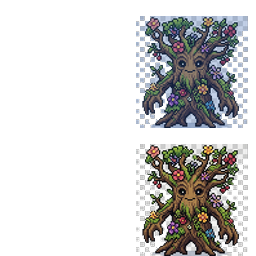
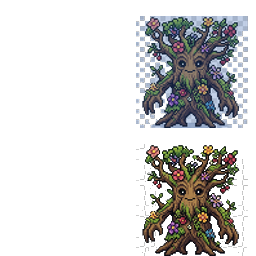
assets(greamici): odstranění rastrovaného (checkerboard) pozadí u lilek + srodik
Dospělé sprity měly zapečený bílo-šedý/modrý šachovnicový raster (artefakt
generace) — happy i sad buňka. Vyčištěna HAPPY buňka (ta se v UI zobrazuje
skoro vždy: neutral+happy mood → happy buňka):
- lilek: barevný klíč (neutrální světlé pixely) flood + global — strom celý, čisté.
- srodik: neutral-key flood na happy buňce — mrak celý, čisté.

SAD buňka ponechána v originále (zobrazuje se zřídka, jen když je mazlíček
smutný): srodikův pastelový mrak je barevně ~jako checker → barevný klíč ho
maže a rembg checker nechává; její dočištění vyžaduje regeneraci/ruční úpravu.

SW v15→v16 (cache-bust obrázků).

Changed region(s): [[0.7188, 0.5625, 0.9688, 1.0], [0.5312, 0.5625, 0.8125, 1.0]]

diff --git a/sw.js b/sw.js
@@ -4,7 +4,7 @@
 //            cache-first for media (audio, images, leaflet, OSM tiles)
 // ═══════════════════════════════════
 
-const VERSION = 'gream-v15';
+const VERSION = 'gream-v16';
 const STATIC_CACHE = `${VERSION}-static`;
 const TILES_CACHE  = `gream-tiles-v1`;
 const LEAFLET_CACHE = `gream-leaflet-v1`;